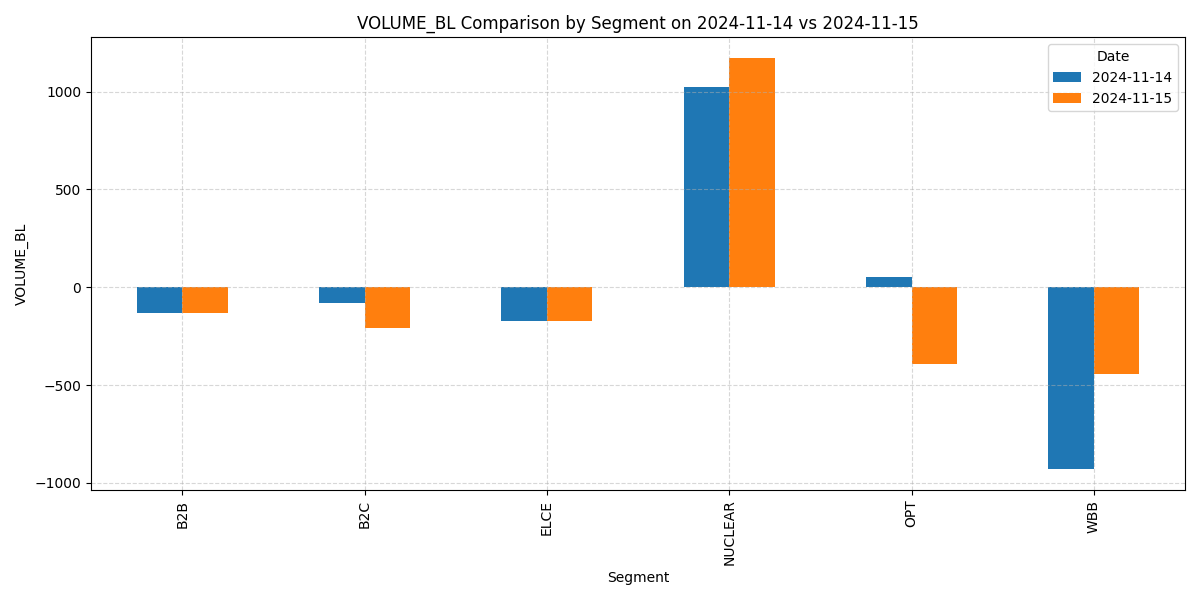
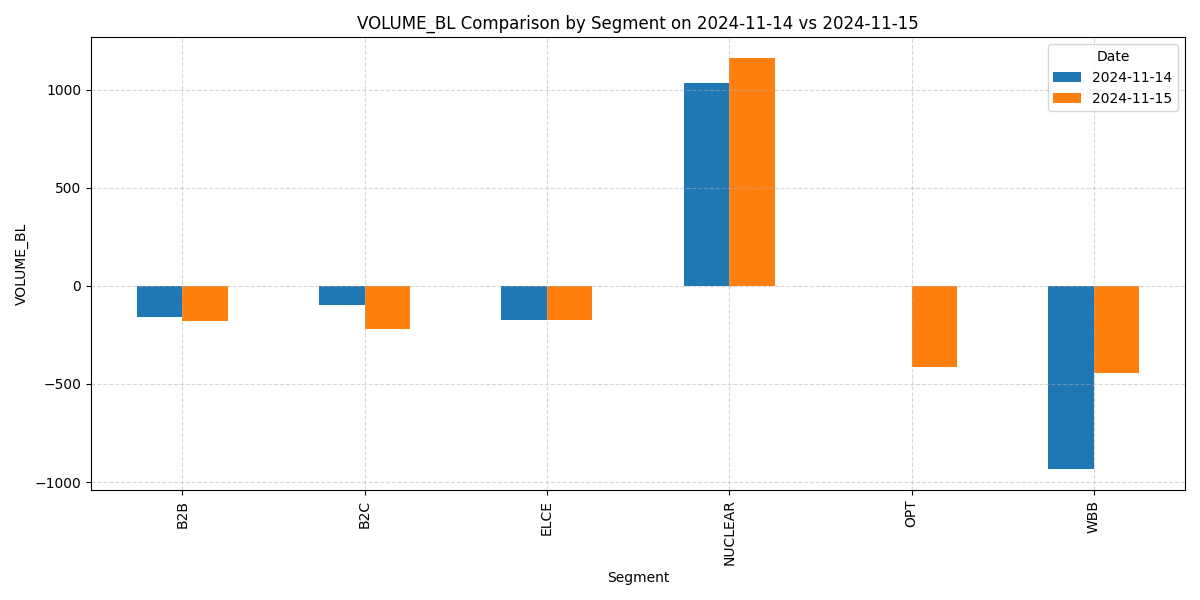
final

diff --git a/templates/report.html b/templates/report.html
@@ -353,9 +353,6 @@
     </div>
   </div>
   
-  
-  
-
   <div class="plot-container">
     {% for plot in plot_paths %}
     <img src="{{ url_for('static', filename=plot.split('static/')[1]) }}" alt="Plot" />

diff --git a/app.py b/app.py
@@ -7,6 +7,7 @@ import seaborn as sns
 import matplotlib.pyplot as plt
 from visuals import generate_volume_bl_trends
 
+
 app = Flask(__name__)
 app.config['UPLOAD_FOLDER'] = 'uploads'
 os.makedirs(app.config['UPLOAD_FOLDER'], exist_ok=True)
@@ -19,20 +20,20 @@ def clean_nop_data(df: pd.DataFrame) -> pd.DataFrame:
     df.dropna(axis=1, how='all', inplace=True)
 
     df.fillna(0, inplace=True)
-    # Step 4: Convert date columns to datetime (if applicable)
+    
     for col in df.columns:
         if 'date' in col.lower():
             try:
-                df[col] = pd.to_datetime(df[col], dayfirst=True)  # <--- Add this
+                df[col] = pd.to_datetime(df[col], dayfirst=True)  
             except Exception as e:
                 print(f"Failed to parse {col}: {e}")
 
 
-    # Step 5: Strip strings in object columns
+    #cleaning of string data of any leading or trailing spaces
     for col in df.select_dtypes(include=['object']).columns:
         df[col] = df[col].str.strip()
 
-    # Convert numeric columns
+    #converting into numeric columns
     for col in ['MKT_VAL_BL', 'VOLUME_BL']:
         if col in df.columns:
             df[col] = df[col].str.replace('"', '').str.replace(',', '').str.strip()
@@ -44,20 +45,17 @@ from datetime import datetime
 import re
 
 def extract_date_from_filename(filename: str) -> datetime:
-    # Example filename: NOP_PW_20241116064501.csv
     match = re.search(r'(\d{14})', filename)
     if match:
         return datetime.strptime(match.group(1), "%Y%m%d")
     return None
 
-
-# card01
-def generate_nop_volume_card(df1, df2, file1_name, file2_name, save_path="static/nop_volume_card.png"):
+# Card01
+def generate_nop_volume_card(df1, df2, save_path="static/nop_volume_card.png"):
     import matplotlib.pyplot as plt
     import os
     date1 = pd.to_datetime(df1.iloc[0, 0])
     date2 = pd.to_datetime(df2.iloc[0, 0])
-
 
     if date1 >= date2:
         selected_df = df1
@@ -67,28 +65,12 @@ def generate_nop_volume_card(df1, df2, file1_name, file2_name, save_path="static
         selected_date = date2
 
     total_volume = selected_df['VOLUME_BL'].sum()
-    
-    # Plot the card
+
     fig, ax = plt.subplots(figsize=(4, 2))
     ax.axis('off')
 
     text = f"$\\bf{{NOP\ Volume}}$\n{total_volume:,.0f}\n(As of {selected_date.strftime('%d-%b-%Y')})"
-    ax.text(
-    0.5, 0.5, text,
-    fontsize=18,
-    ha='center',
-    va='center',
-    color='#222222',
-    fontweight='regular',
-    fontname='Arial',
-    bbox=dict(
-        facecolor='white',
-        edgecolor='none',
-        boxstyle='round,pad=1.2',
-        alpha=0.3
-    )
-)
-
+    ax.text(0.5, 0.5, text, fontsize=18,ha='center',va='center', color='#222222',fontweight='regular',fontname='Arial',bbox=dict(facecolor='white',edgecolor='none',boxstyle='round,pad=1.2',alpha=0.3))
     plt.tight_layout()
     plt.savefig(save_path, bbox_inches='tight', dpi=100)
     plt.close()
@@ -97,7 +79,6 @@ def generate_nop_volume_card(df1, df2, file1_name, file2_name, save_path="static
 # card-2
 def generate_delta_volume_card(df1, df2, file1_name, file2_name, save_path="static/delta_volume_card.png"):
     import matplotlib.pyplot as plt
-
     # Calculate total VOLUME_BL for each file
     volume1 = df1['VOLUME_BL'].sum()
     volume2 = df2['VOLUME_BL'].sum()
@@ -112,8 +93,6 @@ def generate_delta_volume_card(df1, df2, file1_name, file2_name, save_path="stat
     date1 = pd.to_datetime(df1.iloc[0, 0])
     date2 = pd.to_datetime(df2.iloc[0, 0])
 
-
-    # Plot
     fig, ax = plt.subplots(figsize=(4, 2))
     ax.axis('off')
 
@@ -193,7 +172,6 @@ def generate_market_value_card(df1, df2, file1_name, file2_name, save_path="stat
     return save_path
 
 # card 4        
-
 def generate_delta_market_card(df1, df2, file1_name, file2_name, save_path="static/delta_market_card.png"):
     import matplotlib.pyplot as plt
 
@@ -222,7 +200,6 @@ def generate_delta_market_card(df1, df2, file1_name, file2_name, save_path="stat
     f"({sign}{abs(delta_pct):.2f}%)"
 )
 
-    
     ax.text(
     0.5, 0.5, text,
     fontsize=18,
@@ -246,6 +223,7 @@ def generate_delta_market_card(df1, df2, file1_name, file2_name, save_path="stat
     return save_path
 
 
+#exposure hotspot
 def get_exposure_hotspot(df1, df2):
     # Add a column to distinguish
     df1 = df1.copy()
@@ -322,7 +300,7 @@ def generate_ai_summary_for_volume_change(df1, df2):
     filtered = merged[merged['DeltaPerc'].abs() > 5]
 
     if filtered.empty:
-        return "", "", False  # No change, return blank tables and False flag
+        return "", "", False  
 
     def row_html(row):
         horizon_html = f"<td>{row['Horizon']}</td>" if include_horizon else ""
@@ -344,7 +322,6 @@ def generate_ai_summary_for_volume_change(df1, df2):
     full_table = "\n".join(rows)
 
     return short_table, full_table, include_horizon
-
 
 def generate_threshold_breach_alerts(df1, df2):
     import pandas as pd
@@ -377,7 +354,6 @@ def generate_threshold_breach_alerts(df1, df2):
     return short, full
 
 
-
 # nop
 def preprocess_nop_volume(df: pd.DataFrame) -> pd.DataFrame:
     # Step 1: Ensure relevant columns are present
@@ -400,7 +376,7 @@ def preprocess_nop_volume(df: pd.DataFrame) -> pd.DataFrame:
 def generate_top5_books_by_mkt_val_delta(df1, df2):
     import matplotlib.pyplot as plt
     import os
-    # Ensure MKT_VAL_BL is numeric
+    # Ensures MKT_VAL_BL is numeric
     df1['MKT_VAL_BL'] = pd.to_numeric(df1['MKT_VAL_BL'], errors='coerce')
     df2['MKT_VAL_BL'] = pd.to_numeric(df2['MKT_VAL_BL'], errors='coerce')
 
@@ -411,7 +387,7 @@ def generate_top5_books_by_mkt_val_delta(df1, df2):
     # Merge
     merged = pd.merge(df1_grouped, df2_grouped, on='BOOK', how='outer', suffixes=('_df1', '_df2')).fillna(0)
 
-    # Calculate Delta and AbsDelta
+    # Calculates Delta and AbsDelta
     merged['Delta'] = merged['MKT_VAL_BL_df2'] - merged['MKT_VAL_BL_df1']
     merged['AbsDelta'] = merged['Delta'].abs()
 
@@ -473,19 +449,14 @@ def generate_top5_movers_by_segment_book(df1, df2):
 
     return plot_path
 
-# heatmap
+# heatmap visual
 def generate_segment_horizon_heatmap(df1, df2):
-    
-
     df1['Date'] = 'Date1'
     df2['Date'] = 'Date2'
     df = pd.concat([df1, df2], ignore_index=True)
-
     if 'Horizon' not in df.columns or 'Segment' not in df.columns:
         print("Missing required columns for heatmap. Skipping plot.")
         return None
-    
-    # df['MKT_VAL_BL'] = df['MKT_VAL_BL'].str.replace('"', '').str.replace(',', '').str.strip()
     df['MKT_VAL_BL'] = pd.to_numeric(df['MKT_VAL_BL'], errors='coerce')
 
     # Aggregate MKT_VAL_BL
@@ -495,40 +466,26 @@ def generate_segment_horizon_heatmap(df1, df2):
     pivot1 = agg[agg['Date'] == 'Date1'].pivot(index='Segment', columns='Horizon', values='MKT_VAL_BL')
     pivot2 = agg[agg['Date'] == 'Date2'].pivot(index='Segment', columns='Horizon', values='MKT_VAL_BL')
 
-    # Align and compute delta
     delta = pivot2 - pivot1
     delta = delta.fillna(0)
-
-    # formatted_annot = delta.applymap(lambda x: f"+€{x:.1f}M" if x > 0 else (f"€{x:.1f}M" if x < 0 else "€0.0M"))
     cmap = sns.diverging_palette(10, 145, as_cmap=True)
     # Plot heatmap
     plt.figure(figsize=(10, 6))
     ax = sns.heatmap(delta, fmt="", cmap=cmap, # annot=formatted_annot
                 center=0, linewidths=0.5, cbar=False,
                 annot_kws={"size": 10, "weight": "bold"}, square=True)
-    # ax.text(0.5, 1.05, "Segment × Horizon Heatmap (Δ MKT_VAL_BL)",
-    #     horizontalalignment='center',
-    #     verticalalignment='bottom',
-    #     transform=ax.transAxes,
-    #     fontsize=14, weight='bold')
-
-    # plt.title("Segment × Horizon Heatmap (Δ MKT_VAL_BL)")
     plt.ylabel("Segment")
     plt.xlabel("Horizon")
     plt.tight_layout()
-
-    # os.makedirs(os.path.dirname(save_path), exist_ok=True)
     plot_path = os.path.join('static', 'segment_horizon_heatmap.png')
     plt.savefig(plot_path, bbox_inches='tight')
     plt.close()
+    return "segment_horizon_heatmap.png" 
 
-    return "segment_horizon_heatmap.png"  # Just the filename!
-
-# Routes
-
+# Routing
 @app.route('/')
 def index():
-    return render_template('index.html')  # Make sure you have templates/index.html
+    return render_template('index.html')  
 
 @app.route('/generate', methods=['POST'])
 def generate():
@@ -555,7 +512,7 @@ def generate():
     # checking validity of files
     df1_cleaned = clean_nop_data(uploaded_files['csv1']['df'])
     df2_cleaned = clean_nop_data(uploaded_files['csv2']['df'])
-    nop_volume_card_path = generate_nop_volume_card(df1_cleaned, df2_cleaned, uploaded_files['csv1']['filename'], uploaded_files['csv2']['filename'])
+    nop_volume_card_path = generate_nop_volume_card(df1_cleaned, df2_cleaned)
     delta_volume_card_path = generate_delta_volume_card(df1_cleaned, df2_cleaned, uploaded_files['csv1']['filename'], uploaded_files['csv2']['filename'])
     market_value_card_path = generate_market_value_card(df1_cleaned, df2_cleaned, uploaded_files['csv1']['filename'], uploaded_files['csv2']['filename'])
     delta_market_card_path = generate_delta_market_card(df1_cleaned, df2_cleaned, uploaded_files['csv1']['filename'], uploaded_files['csv2']['filename'])
@@ -568,25 +525,11 @@ def generate():
     top5_segment_book_plot = generate_top5_movers_by_segment_book(df1_cleaned, df2_cleaned)
     heatmap_filename = generate_segment_horizon_heatmap(df1_cleaned, df2_cleaned)
 
-    print(heatmap_filename)
-
-    return render_template(
-    'report.html',
-    nop_volume_card_path=nop_volume_card_path,
-    delta_volume_card_path=delta_volume_card_path,
-    market_value_card_path=market_value_card_path,
-    delta_market_card_path=delta_market_card_path,
-    highlight_text=highlight_text,
-    short_volume_table=short_volume_table,
-    full_volume_table=full_volume_table,
-    include_horizon=include_horizon,
-    threshold_alerts_short=threshold_alerts_short,
-    threshold_alerts_full=threshold_alerts_full,
-    plot_paths=plot_paths,
-    top5_books_plot=top5_books_plot,
-    top5_segment_book_plot=top5_segment_book_plot,
-    segment_horizon_heatmap=heatmap_filename,
-)
+    return render_template('report.html',
+    nop_volume_card_path=nop_volume_card_path, delta_volume_card_path=delta_volume_card_path, market_value_card_path=market_value_card_path,
+    delta_market_card_path=delta_market_card_path, highlight_text=highlight_text, short_volume_table=short_volume_table, full_volume_table=full_volume_table,
+    include_horizon=include_horizon, threshold_alerts_short=threshold_alerts_short, threshold_alerts_full=threshold_alerts_full, plot_paths=plot_paths,
+    top5_books_plot=top5_books_plot, top5_segment_book_plot=top5_segment_book_plot, segment_horizon_heatmap=heatmap_filename,)
 
 if __name__ == "__main__":
     app.run(host="0.0.0.0", port=int(os.environ.get("PORT", 5000)))

diff --git a/visuals.py b/visuals.py
@@ -2,20 +2,15 @@ import matplotlib.pyplot as plt
 import pandas as pd
 import os
 
-# Ensure plots folder exists
 os.makedirs("static/plots", exist_ok=True)
 
 def clean_and_prepare_data(df1, df2):
     df1.columns = df1.columns.str.strip()
     df2.columns = df2.columns.str.strip()
 
-    # Drop rows where VOLUME_BL is NaN
+    # Drops the rows where VOLUME_BL is NaN
     df1.dropna(subset=['VOLUME_BL'], inplace=True)
     df2.dropna(subset=['VOLUME_BL'], inplace=True)
-
-    # Optional: convert to integer if all values are whole numbers
-    df1['VOLUME_BL'] = df1['VOLUME_BL'].astype(int)
-    df2['VOLUME_BL'] = df2['VOLUME_BL'].astype(int)
 
     # Handle Report Date
     if 'Report Date' in df1.columns:
